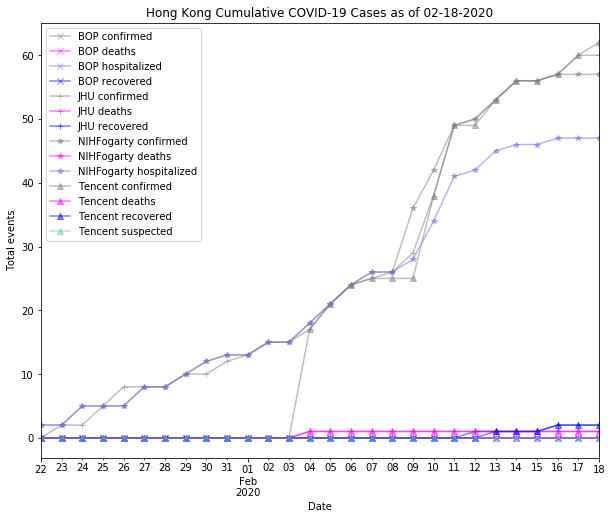
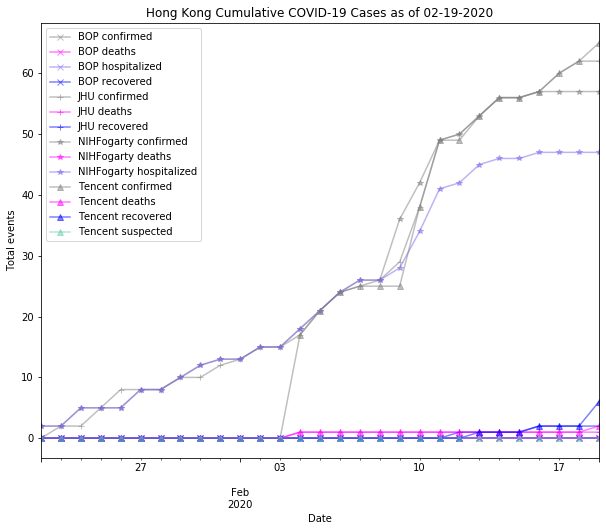
updating daily figs

Changed region(s): [[0.0, 0.0, 1.0, 0.9557], [0.505, 0.9557, 0.5644, 0.9865], [0.5347, 0.5549, 0.5644, 0.5857]]

diff --git a/country_reports/Hong_Kong_report.md b/country_reports/Hong_Kong_report.md
@@ -1,6 +1,6 @@
 # Hong Kong
 ## NSSAC COVID-19 Summary
-## 02/18/2020
+## 02/19/2020
 
 
 
@@ -14,15 +14,15 @@
 |                           | JHU                         | NIHFogarty       | Tencent                       |
 |---------------------------|-----------------------------|------------------|-------------------------------|
 | First update logged       | 01/22/20                    | 01/13/20         | 02/04/20                      |
-| Last update logged        | 02/17/20                    | 02/18/20         | 02/18/20                      |
+| Last update logged        | 02/18/20                    | 02/18/20         | 02/19/20                      |
 | Method                    | Cases by day & country list | Public line list | Daily cases in country scrape |
 | First known case          | 01/22/20                    | 01/22/20         | 02/04/20                      |
-| Total confirmed cases     | 60                          | 57               | 62                            |
-| New cases since yesterday |                             |                  | 2                             |
+| Total confirmed cases     | 62                          | 57               | 65                            |
+| New cases since yesterday |                             |                  | 3                             |
 | Total suspected           |                             |                  | 0                             |
 | Total hospitalized        |                             | 47               |                               |
-| Total recovered           | 2                           |                  | 2                             |
-| Total deaths              | 1                           | 0                | 1                             |
+| Total recovered           | 2                           |                  | 6                             |
+| Total deaths              | 1                           | 0                | 2                             |
 
 Data sources: JHU, NIH-Fogarty, Tencent
 
@@ -46,7 +46,7 @@ Data sources: JHU, NIH-Fogarty, Tencent
 |  7 | NIH      | Wan Chai, Hong Kong     |           1 |
 |  8 | NIH      | Yau Ma Tei, Hong Kong   |           1 |
 |  9 | NIH      | Ngau Chi Wan, Hong Kong |           1 |
-| 10 | JHU      | Hong Kong, Hong Kong    |          60 |
+| 10 | JHU      | Hong Kong, Hong Kong    |          62 |
 
 Data sources: JHU, NIH-Fogarty, Tencent
 

diff --git a/country_reports/India_report.md b/country_reports/India_report.md
@@ -1,6 +1,6 @@
 # India
 ## NSSAC COVID-19 Summary
-## 02/18/2020
+## 02/19/2020
 
 
 
@@ -14,11 +14,11 @@
 |                           | BOP              | JHU                         | NIHFogarty       | Tencent                       |
 |---------------------------|------------------|-----------------------------|------------------|-------------------------------|
 | First update logged       | 01/12/20         | 01/22/20                    | 01/13/20         | 02/04/20                      |
-| Last update logged        | 02/06/20         | 02/17/20                    | 02/18/20         | 02/18/20                      |
+| Last update logged        | 02/06/20         | 02/18/20                    | 02/18/20         | 02/19/20                      |
 | Method                    | Public line list | Cases by day & country list | Public line list | Daily cases in country scrape |
 | First known case          | 01/30/20         | 01/22/20                    | 01/30/20         | 02/06/20                      |
 | Total confirmed cases     | 3                | 3                           | 3                | 3                             |
-| New cases since yesterday |                  |                             |                  | 3                             |
+| New cases since yesterday |                  |                             |                  | 0                             |
 | Total suspected           |                  |                             |                  | 0                             |
 | Total hospitalized        | 0                |                             | 0                |                               |
 | Total recovered           | 0                | 3                           |                  | 0                             |
